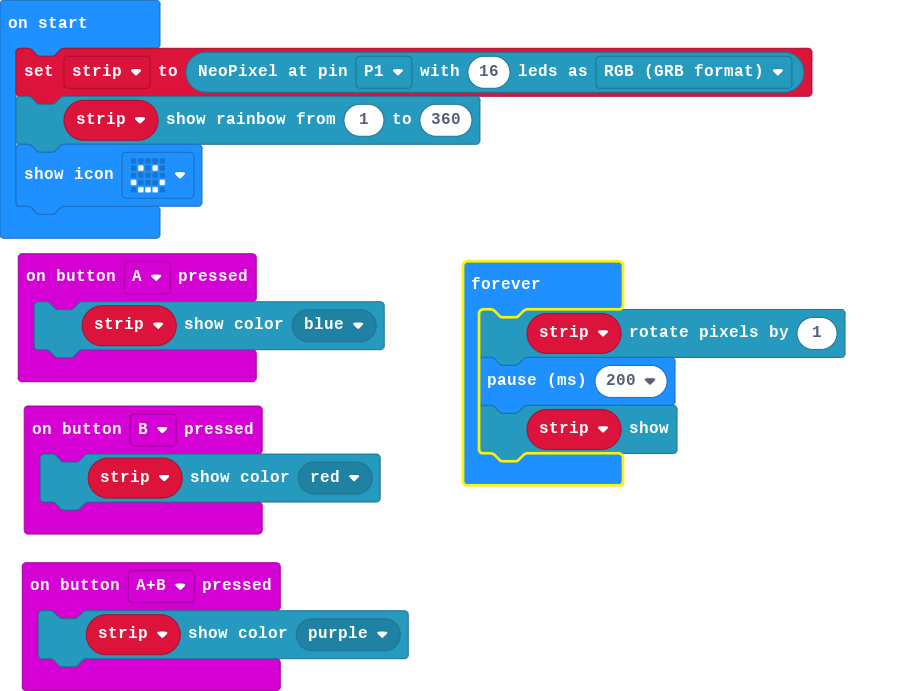
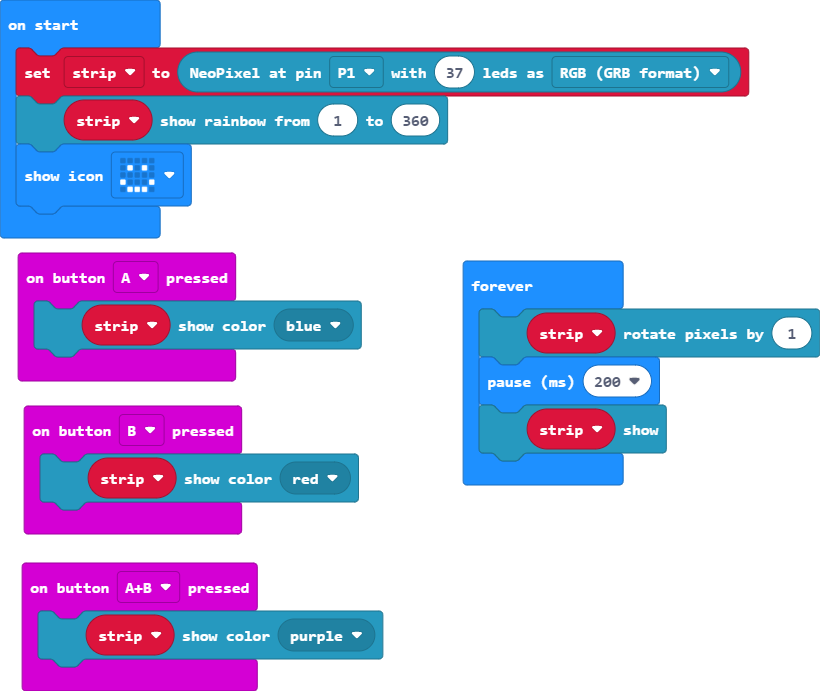
37 leds

diff --git a/main.ts b/main.ts
@@ -8,7 +8,7 @@ input.onButtonPressed(Button.B, function () {
     strip.showColor(neopixel.colors(NeoPixelColors.Red))
 })
 let strip: neopixel.Strip = null
-strip = neopixel.create(DigitalPin.P1, 16, NeoPixelMode.RGB)
+strip = neopixel.create(DigitalPin.P1, 37, NeoPixelMode.RGB)
 strip.showRainbow(1, 360)
 basic.showIcon(IconNames.Happy)
 basic.forever(function () {
